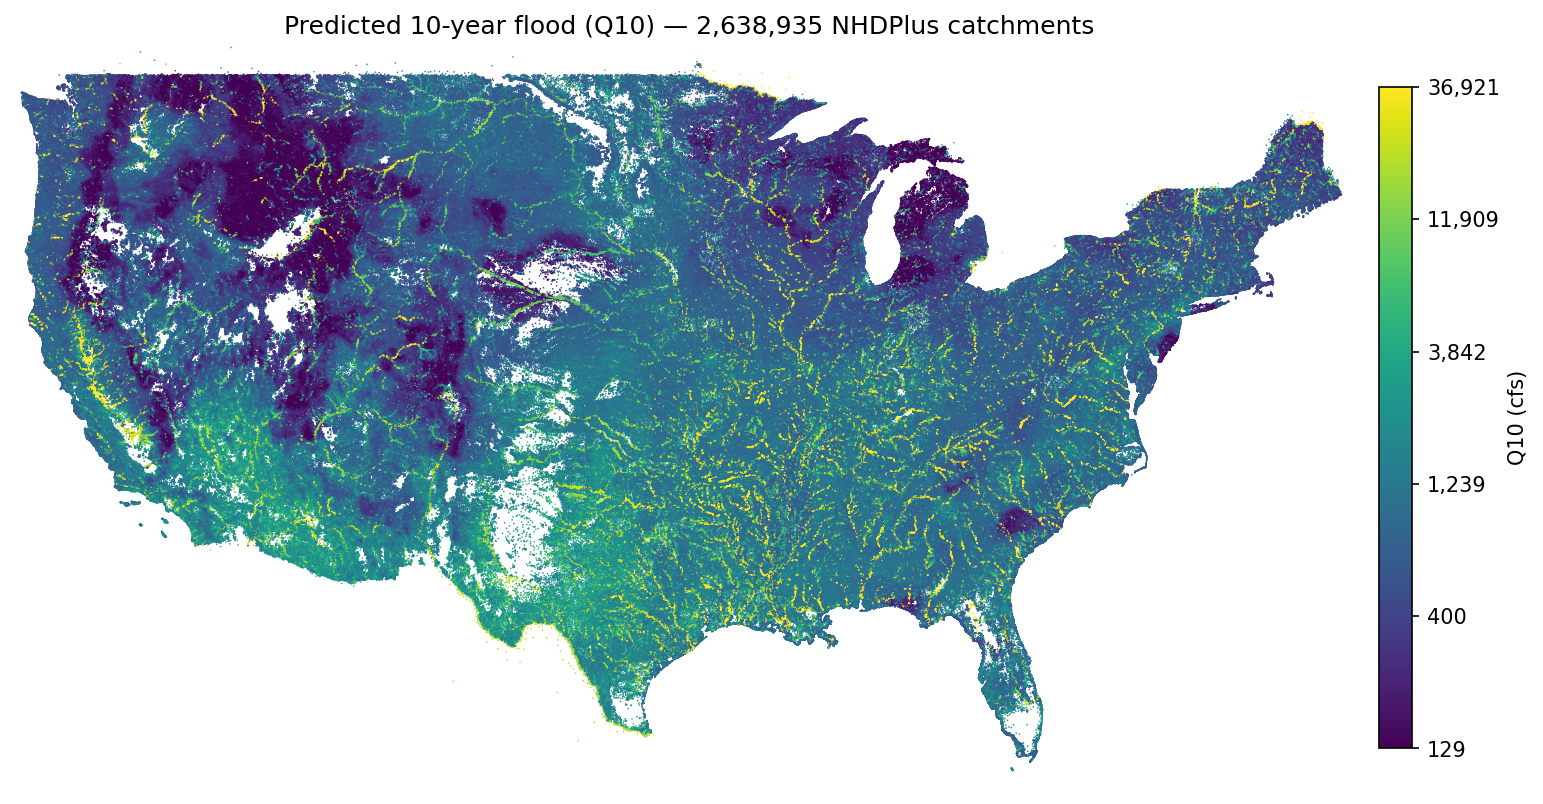
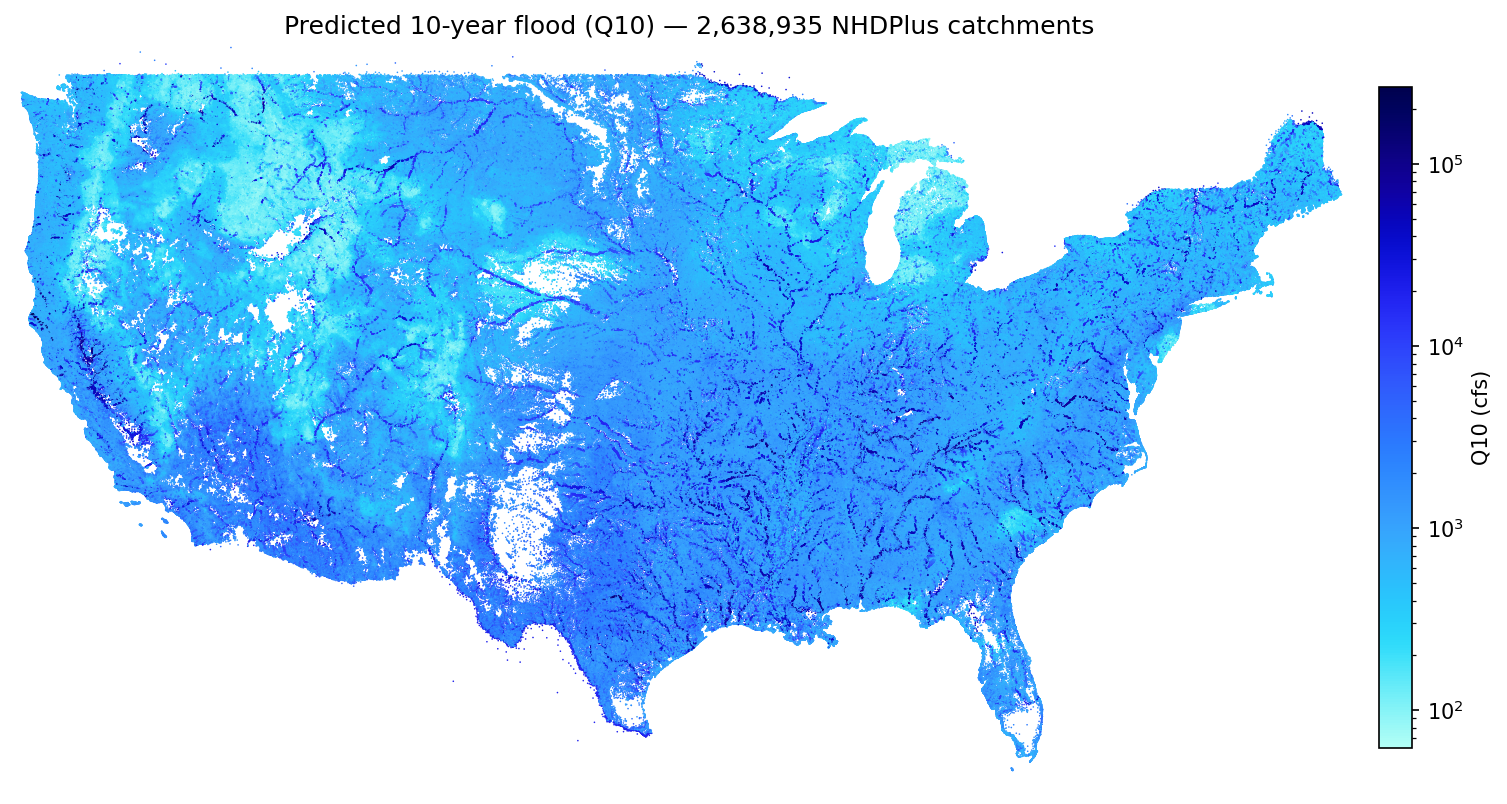
Add NWM retrospective benchmark to ffa_ml
compare_nwm.py streams the NWM v3.0 retrospective daily table (1979-2023,
4,281 gauge reaches), takes water-year annual maxima, and fits the same LP3
(method of moments) to derive NWM-implied Q2-Q500 per COMID. It benchmarks
both NWM and the model's out-of-fold leave-HUC2-out CV predictions against the
at-site LP3 truth on the 1,440 unregulated QC reaches (using cv_predictions,
not in-sample conus_predictions, so the ML side is scored as a genuine ungauged
predictor).

Result: the ML model beats NWM at every return period (Q10 R2 0.79 vs 0.32;
Q500 0.65 vs 0.23); NWM runs ~40% low (median ratio 0.57-0.60), the expected
signature of daily-mean annual maxima under-representing instantaneous peaks.

- reports/build_report.py: NWM benchmark section + _nwm_table; regenerated
  validation_report.ipynb
- reports/fig_nwm_comparison.png, reports/nwm_comparison_metrics.csv
- reports/map_geoparquet.py + fig_conus_q*_catchments.png: per-RP CONUS maps

Claude-Session: https://claude.ai/code/session_011LotNzRz5YojkdrKzKxzc1

diff --git a/code/ffa_ml/src/compare_nwm.py b/code/ffa_ml/src/compare_nwm.py
@@ -1,0 +1,255 @@
+from __future__ import annotations
+
+"""
+Benchmark the ungauged ML model against the NWM v3.0 retrospective at gauge reaches.
+
+At every USGS gauge reach we have three independent estimates of the standard
+return-period discharges Q2…Q500:
+
+1. **At-site LP3** on the observed USGS annual instantaneous peaks
+   (``ffa/streamstats_validation.parquet``) — the training target, treated as truth.
+2. **This ML model** — the *out-of-fold* leave-HUC2-out CV predictions
+   (``ml/cv_predictions.parquet``), so the model is scored as a genuine ungauged
+   predictor (never on gauges it trained on), matching how NWM is inherently
+   out-of-sample here.  (The in-sample ``conus_predictions`` would give a misleading
+   R² ≈ 0.996 at these very training reaches.)
+3. **NWM retrospective** (``nwm/nwm_streamflow.parquet``) — 45 years (1979–2023) of
+   *daily mean* simulated streamflow; we take the annual maxima and fit the same LP3
+   (log-Pearson III, method of moments) to obtain NWM-implied Q2…Q500.
+
+The module streams the 68.8M-row NWM daily table row-group by row-group (bounded
+memory), builds a water-year annual-max series per reach, fits LP3, and writes
+``ml/nwm_return_periods.parquet``.  It then joins all three sources on the common
+reaches and reports log-space skill (R²/bias/RMSE) of NWM-vs-truth and ML-vs-truth
+per return period, plus an obs-vs-estimate scatter figure.
+
+Caveat: NWM retrospective is *daily mean* flow, so its annual maxima systematically
+under-represent instantaneous peaks (most in small/flashy basins).  A low bias for
+NWM is expected and is reported, not corrected.
+
+Example
+-------
+    python compare_nwm.py
+    python compare_nwm.py --min-years 20
+"""
+
+import argparse
+import logging
+from pathlib import Path
+
+import matplotlib
+
+matplotlib.use("Agg")
+import matplotlib.pyplot as plt
+import numpy as np
+import pandas as pd
+import pyarrow.parquet as pq
+from scipy import stats
+
+logger = logging.getLogger(__name__)
+
+DATA_DIR = Path.home() / "data" / "flood_hazard"
+NWM_PATH = DATA_DIR / "nwm" / "nwm_streamflow.parquet"
+OBS_PATH = DATA_DIR / "ffa" / "streamstats_validation.parquet"
+CV_PRED_PATH = DATA_DIR / "ml" / "cv_predictions.parquet"
+REG_PATH = DATA_DIR / "metadata" / "regulation.parquet"
+FF_PATH = DATA_DIR / "ffa" / "flood_frequency.parquet"
+PPCC_PATH = DATA_DIR / "ffa" / "ppcc.parquet"
+
+OUT_NWM = DATA_DIR / "ml" / "nwm_return_periods.parquet"
+OUT_COMPARE = DATA_DIR / "ml" / "nwm_comparison.parquet"
+REPORT_DIR = Path(__file__).resolve().parents[1] / "reports"
+METRICS_CSV = REPORT_DIR / "nwm_comparison_metrics.csv"
+FIG_PATH = REPORT_DIR / "fig_nwm_comparison.png"
+
+RETURN_PERIODS = [2, 5, 10, 25, 50, 100, 200, 500]
+
+
+def nwm_annual_max(nwm_path: Path) -> pd.DataFrame:
+    """Stream the NWM daily table → water-year annual-max streamflow per reach.
+
+    Returns a long frame ``[reach_id, wy, qmax_cfs]`` plus attaches, via the return
+    value's ``.attrs['pairs']``, the reach_id→site_no crosswalk observed in the file.
+    """
+    pf = pq.ParquetFile(nwm_path)
+    maxes: dict[tuple[int, int], float] = {}
+    pairs: dict[int, str] = {}
+    cols = ["site_no", "reach_id", "date", "streamflow_cfs"]
+    for i in range(pf.num_row_groups):
+        df = pf.read_row_group(i, columns=cols).to_pandas()
+        d = pd.to_datetime(df["date"])
+        df["wy"] = d.dt.year + (d.dt.month >= 10).astype("int32")
+        g = df.groupby(["reach_id", "wy"], sort=False)["streamflow_cfs"].max()
+        for key, val in g.items():
+            if key not in maxes or val > maxes[key]:
+                maxes[key] = float(val)
+        for rid, sno in df[["reach_id", "site_no"]].drop_duplicates().itertuples(index=False):
+            pairs.setdefault(int(rid), sno)
+        logger.info("  row group %d/%d processed", i + 1, pf.num_row_groups)
+
+    idx = pd.MultiIndex.from_tuples(maxes.keys(), names=["reach_id", "wy"])
+    out = pd.DataFrame({"qmax_cfs": list(maxes.values())}, index=idx).reset_index()
+    out.attrs["pairs"] = pd.Series(pairs, name="site_no").rename_axis("reach_id").reset_index()
+    logger.info("NWM annual-max: %d reach-years across %d reaches",
+                len(out), out["reach_id"].nunique())
+    return out
+
+
+def lp3_quantiles(qmax: np.ndarray, return_periods: list[int]) -> dict[int, float] | None:
+    """Log-Pearson III quantiles (method of moments) from an annual-max series."""
+    q = qmax[np.isfinite(qmax) & (qmax > 0)]
+    if q.size < 2:
+        return None
+    x = np.log10(q)
+    mean = float(x.mean())
+    std = float(x.std(ddof=1))
+    if std == 0:
+        return None
+    skew = float(stats.skew(x, bias=False))
+    out: dict[int, float] = {}
+    for t in return_periods:
+        xp = stats.pearson3.ppf(1.0 - 1.0 / t, skew, loc=mean, scale=std)
+        out[t] = float(10.0 ** xp)
+    return out
+
+
+def fit_nwm_return_periods(ams: pd.DataFrame, min_years: int) -> pd.DataFrame:
+    """Fit LP3 per reach on the NWM annual-max series."""
+    rows: list[dict] = []
+    for rid, grp in ams.groupby("reach_id", sort=False):
+        n = grp["qmax_cfs"].notna().sum()
+        if n < min_years:
+            continue
+        qs = lp3_quantiles(grp["qmax_cfs"].to_numpy(), RETURN_PERIODS)
+        if qs is None:
+            continue
+        row = {"reach_id": int(rid), "n_years": int(n)}
+        row.update({f"nwm_q{t}_cfs": qs[t] for t in RETURN_PERIODS})
+        rows.append(row)
+    out = pd.DataFrame(rows)
+    out = out.merge(ams.attrs["pairs"], on="reach_id", how="left")
+    logger.info("Fitted NWM LP3 at %d reaches (min_years=%d)", len(out), min_years)
+    return out
+
+
+def _qc_sites() -> pd.Index:
+    """site_no passing the same QC gate used for training targets."""
+    ff = pd.read_parquet(FF_PATH)
+    ppcc = pd.read_parquet(PPCC_PATH, columns=["site_no", "ppcc_ok"])
+    ff = ff.merge(ppcc, on="site_no", how="left")
+    ok = (
+        ff.get("record_ok", True)
+        & ~ff.get("degenerate_fit", False)
+        & ff["ppcc_ok"].fillna(False)
+        & ~ff.get("high_censoring", False)
+    )
+    return pd.Index(ff.loc[ok, "site_no"].unique())
+
+
+def build_comparison(nwm_rp: pd.DataFrame) -> pd.DataFrame:
+    """Join NWM, observed at-site LP3, and ML predictions on common reaches."""
+    obs = pd.read_parquet(
+        OBS_PATH, columns=["site_no"] + [f"q{t}_cfs" for t in RETURN_PERIODS] + ["q2_check_failed"]
+    ).rename(columns={f"q{t}_cfs": f"obs_q{t}_cfs" for t in RETURN_PERIODS})
+    # ML side: out-of-fold spatial-CV predictions (log10) → cfs; join on site_no.
+    cv = pd.read_parquet(
+        CV_PRED_PATH, columns=["site_no"] + [f"pred_log_q{t}" for t in RETURN_PERIODS]
+    )
+    for t in RETURN_PERIODS:
+        cv[f"ml_q{t}_cfs"] = 10.0 ** cv[f"pred_log_q{t}"]
+    pred = cv[["site_no"] + [f"ml_q{t}_cfs" for t in RETURN_PERIODS]]
+    reg = pd.read_parquet(REG_PATH, columns=["site_no", "is_regulated"])
+
+    df = nwm_rp.merge(obs, on="site_no", how="inner").merge(pred, on="site_no", how="left")
+    df = df.merge(reg, on="site_no", how="left")
+    df["is_regulated"] = df["is_regulated"].fillna(False)
+    df["qc_ok"] = df["site_no"].isin(_qc_sites()) & ~df["q2_check_failed"].fillna(True)
+    logger.info("Comparison frame: %d reaches (%d QC-ok, %d unregulated QC-ok)",
+                len(df), int(df["qc_ok"].sum()),
+                int((df["qc_ok"] & ~df["is_regulated"]).sum()))
+    return df
+
+
+def _skill(obs: np.ndarray, est: np.ndarray) -> dict[str, float]:
+    """Log10-space skill of an estimate against observed."""
+    m = np.isfinite(obs) & np.isfinite(est) & (obs > 0) & (est > 0)
+    lo, le = np.log10(obs[m]), np.log10(est[m])
+    resid = le - lo
+    ss_res = float(np.sum(resid ** 2))
+    ss_tot = float(np.sum((lo - lo.mean()) ** 2))
+    return {
+        "n": int(m.sum()),
+        "r2": 1.0 - ss_res / ss_tot if ss_tot > 0 else np.nan,
+        "bias_dex": float(resid.mean()),
+        "rmse_dex": float(np.sqrt((resid ** 2).mean())),
+        "median_ratio": float(10.0 ** np.median(resid)),
+    }
+
+
+def metrics_table(df: pd.DataFrame) -> pd.DataFrame:
+    """Per-RP skill for NWM and ML against the at-site LP3 truth (unregulated QC set)."""
+    sub = df[df["qc_ok"] & ~df["is_regulated"]]
+    rows: list[dict] = []
+    for t in RETURN_PERIODS:
+        obs = sub[f"obs_q{t}_cfs"].to_numpy()
+        for name in ("nwm", "ml"):
+            s = _skill(obs, sub[f"{name}_q{t}_cfs"].to_numpy())
+            rows.append({"return_period": t, "source": name, **s})
+    out = pd.DataFrame(rows).set_index(["return_period", "source"])
+    return out
+
+
+def make_figure(df: pd.DataFrame, out: Path) -> None:
+    """Obs-vs-estimate scatter (Q10 and Q100) for NWM and ML on the unregulated QC set."""
+    sub = df[df["qc_ok"] & ~df["is_regulated"]]
+    fig, axes = plt.subplots(1, 2, figsize=(11, 5.4))
+    for ax, t in zip(axes, (10, 100)):
+        obs = sub[f"obs_q{t}_cfs"].to_numpy()
+        for name, color in (("nwm", "#d1495b"), ("ml", "#2e86ab")):
+            est = sub[f"{name}_q{t}_cfs"].to_numpy()
+            m = np.isfinite(obs) & np.isfinite(est) & (obs > 0) & (est > 0)
+            ax.scatter(obs[m], est[m], s=5, alpha=0.35, c=color, linewidths=0,
+                       label=f"{name.upper()} (n={m.sum()})")
+        lims = [np.nanmin(obs[obs > 0]), np.nanmax(obs)]
+        ax.plot(lims, lims, "k-", lw=0.8)
+        ax.set_xscale("log"); ax.set_yscale("log")
+        ax.set_xlabel(f"At-site LP3 Q{t} (cfs)")
+        ax.set_ylabel(f"Estimated Q{t} (cfs)")
+        ax.set_title(f"Q{t}: NWM vs ML against at-site LP3")
+        ax.legend(loc="upper left", fontsize=8, framealpha=0.9)
+    fig.tight_layout()
+    fig.savefig(out, dpi=150, bbox_inches="tight")
+    plt.close(fig)
+    logger.info("Wrote %s", out)
+
+
+def main() -> None:
+    parser = argparse.ArgumentParser(description=__doc__)
+    parser.add_argument("--min-years", type=int, default=15,
+                        help="minimum NWM annual-max years to fit LP3 (default 15)")
+    parser.add_argument("--nwm", type=Path, default=NWM_PATH)
+    args = parser.parse_args()
+    logging.basicConfig(level=logging.INFO, format="%(asctime)s %(levelname)s %(message)s")
+
+    if OUT_NWM.exists():
+        logger.info("Reusing cached %s", OUT_NWM)
+        nwm_rp = pd.read_parquet(OUT_NWM)
+    else:
+        ams = nwm_annual_max(args.nwm)
+        nwm_rp = fit_nwm_return_periods(ams, args.min_years)
+        nwm_rp.to_parquet(OUT_NWM, index=False)
+        logger.info("Wrote %s", OUT_NWM)
+
+    df = build_comparison(nwm_rp)
+    df.to_parquet(OUT_COMPARE, index=False)
+    logger.info("Wrote %s", OUT_COMPARE)
+
+    metrics = metrics_table(df)
+    REPORT_DIR.mkdir(parents=True, exist_ok=True)
+    metrics.to_csv(METRICS_CSV)
+    logger.info("Wrote %s\n%s", METRICS_CSV, metrics.to_string())
+    make_figure(df, FIG_PATH)
+
+
+if __name__ == "__main__":
+    main()

diff --git a/code/ffa_ml/reports/build_report.py b/code/ffa_ml/reports/build_report.py
@@ -38,9 +38,25 @@ def _md_table(csv: Path, floatfmt: str = "{:.3f}") -> str:
     return "\n".join([header, sep, *rows])
 
 
+def _nwm_table(csv: Path) -> str:
+    """Pivot the NWM/ML comparison metrics into one markdown table (per return period)."""
+    df = pd.read_csv(csv)
+    piv = df.pivot(index="return_period", columns="source")
+    rows = ["| RP | NWM R² | NWM bias (dex) | NWM med. ratio | ML R² | ML bias (dex) |",
+            "| --- | --- | --- | --- | --- | --- |"]
+    for rp in piv.index:
+        rows.append(
+            f"| Q{rp} | {piv[('r2', 'nwm')][rp]:.2f} | {piv[('bias_dex', 'nwm')][rp]:+.2f} | "
+            f"{piv[('median_ratio', 'nwm')][rp]:.2f} | {piv[('r2', 'ml')][rp]:.2f} | "
+            f"{piv[('bias_dex', 'ml')][rp]:+.2f} |"
+        )
+    return "\n".join(rows)
+
+
 def build() -> Path:
     metrics = _md_table(REPORT_DIR / "metrics_by_rp.csv")
     baseline = _md_table(REPORT_DIR / "baseline_comparison.csv")
+    nwm = _nwm_table(REPORT_DIR / "nwm_comparison_metrics.csv")
     n_conus = pd.read_parquet(ML_DIR / "conus_predictions.parquet", columns=["COMID"]).shape[0]
 
     nb = nbf.v4.new_notebook()
@@ -72,6 +88,24 @@ def build() -> Path:
             "state-specific USGS equations still lead (e.g. Q10 log-R² ≈ 0.88 vs ≈ 0.80). "
             "The value here is a single, nationally consistent model with calibrated uncertainty "
             "and full CONUS coverage — including reaches StreamStats regression does not serve."
+        ),
+        nbf.v4.new_markdown_cell(
+            "## Independent benchmark: NWM v3.0 retrospective\n\n" + nwm + "\n\n"
+            "A second, fully independent check. From 45 years (1979–2023) of NWM v3.0 "
+            "retrospective *daily* streamflow we take the water-year annual maxima and fit "
+            "the same log-Pearson III, giving NWM-implied Q2–Q500 at each gauge reach "
+            "(COMID join). Both estimators are scored out-of-sample against the at-site LP3 "
+            "on the **1,440 unregulated QC reaches**: NWM is a physics model that never saw "
+            "these peaks, and the ML column is its **leave-HUC2-out** prediction (not the "
+            "in-sample fit).\n\n"
+            "The attribute-based ML model is the stronger ungauged estimator at every return "
+            "period (e.g. Q10 R² ≈ 0.79 vs 0.32; Q100 ≈ 0.71 vs 0.34). NWM also runs "
+            "**~40% low** (median ratio ≈ 0.57–0.60, bias ≈ −0.27 dex) — the expected "
+            "consequence of annual maxima taken from *daily-mean* flow, which under-represents "
+            "instantaneous peaks, compounded by the model's own error. NWM's skill peaks around "
+            "Q25–Q50 and its spatial pattern corroborates the ML surface, but for flood-quantile "
+            "*magnitude* at ungauged reaches the trained model is clearly preferable.\n\n"
+            "![nwm](fig_nwm_comparison.png)"
         ),
         nbf.v4.new_markdown_cell(
             "## Spatial cross-validation residuals\n\n"

diff --git a/code/ffa_ml/reports/map_geoparquet.py b/code/ffa_ml/reports/map_geoparquet.py
@@ -23,6 +23,7 @@ import matplotlib
 
 matplotlib.use("Agg")
 import matplotlib.pyplot as plt
+from matplotlib.colors import LogNorm
 import numpy as np
 import geopandas as gpd
 
@@ -43,21 +44,19 @@ def build(rp: int = 10) -> Path:
             c = g.geometry.centroid
         xs.append(c.x.to_numpy())
         ys.append(c.y.to_numpy())
-        vs.append(np.log10(g[qcol].to_numpy()))
+        vs.append(g[qcol].to_numpy())
         logger.info("  %s: %d catchments", part.stem, len(g))
     x = np.concatenate(xs); y = np.concatenate(ys); v = np.concatenate(vs)
     logger.info("Total plotted: %d catchments", len(v))
+    logger.info("Q%d range: %.1f – %.1f cfs", rp, v.min(), v.max())
 
-    vmin, vmax = np.percentile(v, [2, 98])
     fig, ax = plt.subplots(figsize=(11, 6.6))
-    # sc = ax.scatter(x, y, c=v, cmap="viridis", s=0.6, vmin=vmin, vmax=vmax, linewidths=0)
-    sc = ax.scatter(x, y, c=v, cmap=cc.kbc, s=0.6, vmin=vmin, vmax=vmax, linewidths=0)
+    sc = ax.scatter(x, y, c=v, cmap=cc.cm.kbc_r, s=0.6,
+                    norm=LogNorm(vmin=v.min(), vmax=v.max()), linewidths=0)
     ax.set_xlim(-125, -66); ax.set_ylim(24, 50)
     ax.set_aspect(1.25); ax.set_axis_off()
     ax.set_title(f"Predicted {rp}-year flood (Q{rp}) — {len(v):,} NHDPlus catchments", fontsize=12)
     cbar = fig.colorbar(sc, ax=ax, shrink=0.7, pad=0.01)
-    ticks = np.linspace(vmin, vmax, 6)
-    cbar.set_ticks(ticks); cbar.set_ticklabels([f"{10**t:,.0f}" for t in ticks])
     cbar.set_label(f"Q{rp} (cfs)")
     fig.tight_layout()
     out = REPORT_DIR / f"fig_conus_q{rp}_catchments.png"
